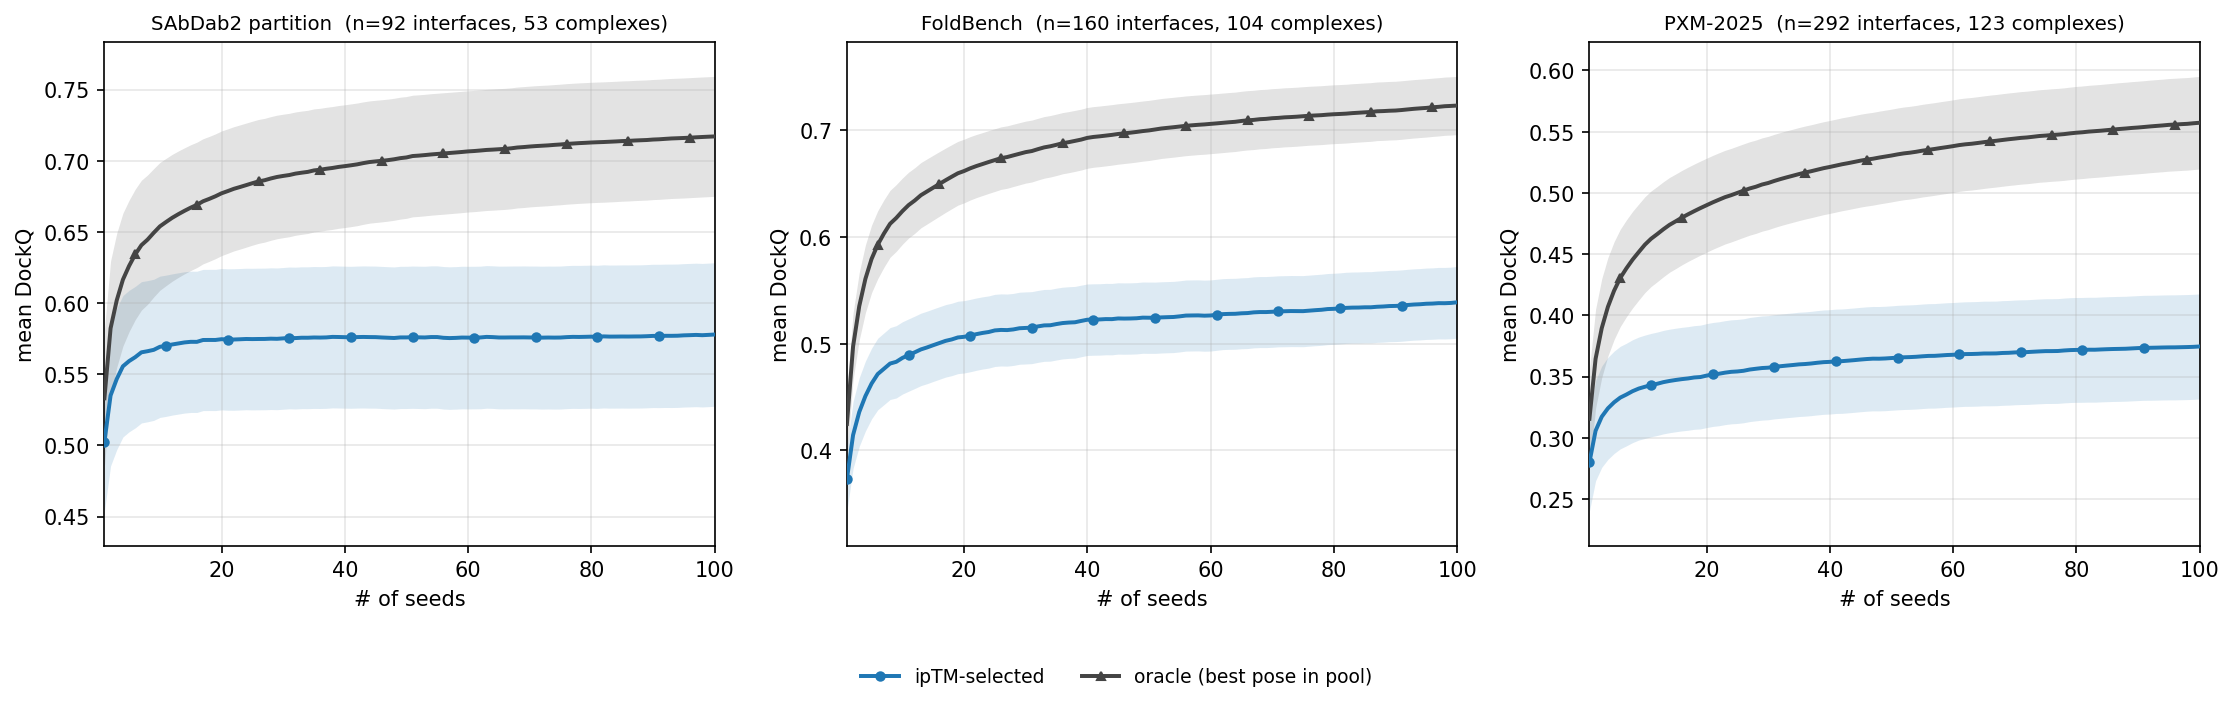
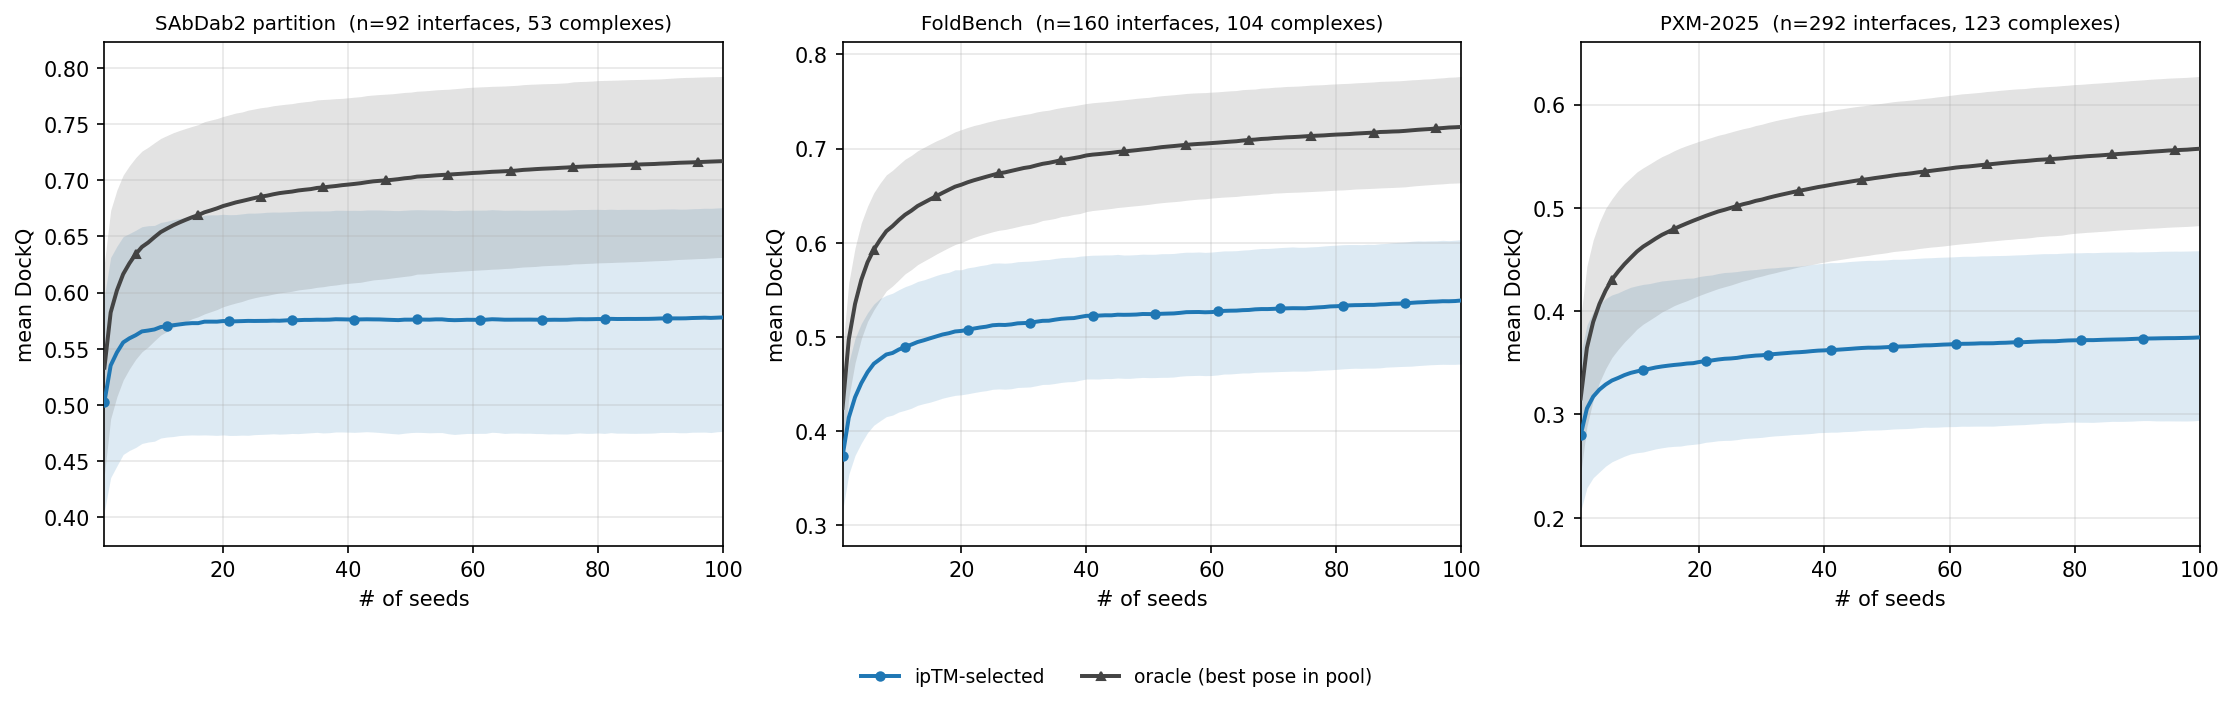
figures: 95% percentile CIs, the gap bootstrapped paired, and two stale README bullets
Three review items, all verified against the code first.

95% CLUSTER-BOOTSTRAP CONFIDENCE INTERVALS replace the +/-1 SEM bands. Percentile
intervals also drop the symmetry assumption, which matters where a proportion is
bounded: FoldBench's oracle runs above 90% and a symmetric band there extends past
100%. n_boot defaults to 2,000 rather than 400 because percentiles depend on the
tails, not the spread. cluster_sem is kept for the printed comparison against the
naive binomial SEM.

Cost stayed flat by precomputing each complex's summed curve, so a replicate sums
~100 complexes instead of ~300 interfaces: 2,000 replicates now run faster than
400 did. The estimand is unchanged -- a replicate divides by how many INTERFACES
its sampled complexes carry, so it remains the interface-weighted mean.

THE GAP IS NOW BOOTSTRAPPED PAIRED, and selection_vs_budget.py actually calls
add_gap(), which it did not. It was printing the difference of two aggregate
curves with no interval, while the README quoted gap SEMs that script could not
reproduce. The two curves are measured on the SAME interfaces and move together,
so differencing independently-banded curves misstates it. At 50 seeds:

  SAbDab2 partition  13.7 [ 8.7, 19.6]      FoldBench  17.4 [11.4, 23.8]
  PXM-2025           27.9 [20.1, 36.5]

Every gap interval excludes zero, on both the thresholded and continuous measures,
on all three benchmarks. Each panel now annotates its gap at 50 seeds from the
[…]

diff --git a/figures/selection_vs_budget.py b/figures/selection_vs_budget.py
@@ -49,7 +49,8 @@ def main():
     ap.add_argument("--draws", type=int, default=40,
                     help="seed subsets drawn per interface; the curve is an expectation over "
                          "WHICH N seeds you have, not over the first N by seed number")
-    ap.add_argument("--n-boot", type=int, default=400, help="cluster bootstrap replicates")
+    ap.add_argument("--n-boot", type=int, default=2000,
+                    help="cluster bootstrap replicates. 2,000 rather than 400 because the\n                         bands are PERCENTILE intervals, which depend on the tails and need\n                         far more replicates than a standard deviation does.")
     ap.add_argument("--binomial-band", action="store_true",
                     help="also draw the naive per-interface binomial SEM, for comparison")
     ap.add_argument("--out", default="figures/selection_vs_budget.png")
@@ -61,36 +62,49 @@ def main():
         if not os.path.exists(path):
             print(f"{name}: {path} absent, skipped")
             continue
-        sw = PS.sweep(path, ic, sc, smc, dc, qc, a.max_budget, a.draws, pdb_col=pc)
+        sw = PS.add_gap(PS.sweep(path, ic, sc, smc, dc, qc, a.max_budget, a.draws,
+                                 pdb_col=pc))
         series.append((name, sw))
 
     for name, sw in series:
         xs = sw["budgets"]
         sel, orc = PS.mean_curve(sw, "sel_acc"), PS.mean_curve(sw, "orc_acc")
-        sel_e = PS.cluster_sem(sw, "sel_acc", a.n_boot)
-        orc_e = PS.cluster_sem(sw, "orc_acc", a.n_boot)
+        sel_lo, sel_hi = PS.cluster_ci(sw, "sel_acc", a.n_boot)
+        orc_lo, orc_hi = PS.cluster_ci(sw, "orc_acc", a.n_boot)
+        # THE GAP IS THE CLAIM, SO IT CARRIES ITS OWN PAIRED INTERVAL. Differencing two aggregate
+        # curves and eyeballing their separate bands ignores that the two are measured on the SAME
+        # interfaces and move together; the paired bootstrap keeps that pairing.
+        gap = PS.mean_curve(sw, "gap_acc")
+        gap_lo, gap_hi = PS.cluster_ci(sw, "gap_acc", a.n_boot)
         sel_b = PS.binomial_sem(sw, "sel_acc")
         seed_sd = PS.mean_seed_sd(sw, "seed_sd_acc")
         print(f"\n{name}: {len(sw['ifaces'])} interfaces over {len(set(sw['pdb']))} complexes, "
-              f"{a.draws} seed draws, {a.n_boot} cluster-bootstrap replicates")
-        print(f"{'N':>4}  {'selected':>18} {'oracle':>18}  {'gap':>6}  {'binomSEM':>8} "
+              f"{a.draws} seed draws, {a.n_boot} cluster-bootstrap replicates, 95% percentile CIs")
+        print(f"{'N':>4}  {'selected':>22} {'oracle':>22}  {'paired gap':>22}  {'binomSEM':>8} "
               f"{'seedSD':>7}")
         for n in (1, 5, 10, 25, 50, 75, 100):
             if n > len(xs):
                 continue
             j = n - 1
-            print(f"{n:>4}  {sel[j]*100:>8.1f}+/-{sel_e[j]*100:<7.1f} "
-                  f"{orc[j]*100:>8.1f}+/-{orc_e[j]*100:<7.1f}  {(orc[j]-sel[j])*100:>6.1f}  "
+            print(f"{n:>4}  {sel[j]*100:>6.1f} [{sel_lo[j]*100:>5.1f},{sel_hi[j]*100:>5.1f}] "
+                  f"{orc[j]*100:>6.1f} [{orc_lo[j]*100:>5.1f},{orc_hi[j]*100:>5.1f}]  "
+                  f"{gap[j]*100:>6.1f} [{gap_lo[j]*100:>5.1f},{gap_hi[j]*100:>5.1f}]  "
                   f"{sel_b[j]*100:>8.1f} {seed_sd[j]*100:>7.1f}")
+
+    # PAIRED GAPS, computed once, so the annotation and the printed table cannot disagree.
+    gap_all = {}
+    for name, sw in series:
+        g = PS.mean_curve(sw, "gap_acc")
+        glo, ghi = PS.cluster_ci(sw, "gap_acc", a.n_boot)
+        gap_all[name] = (g, glo, ghi)
 
     fig, axes = plt.subplots(1, 3, figsize=(15, 4.6))
     for ax, (name, sw) in zip(axes, series):
         xs = sw["budgets"]
-        curves = [(PS.mean_curve(sw, "sel_acc"), PS.cluster_sem(sw, "sel_acc", a.n_boot)),
-                  (PS.mean_curve(sw, "orc_acc"), PS.cluster_sem(sw, "orc_acc", a.n_boot))]
-        for (ms, es), c in zip(curves, COLORS):
-            ax.fill_between(xs, [(m - e) * 100 for m, e in zip(ms, es)],
-                            [(m + e) * 100 for m, e in zip(ms, es)],
+        curves = [(PS.mean_curve(sw, "sel_acc"), PS.cluster_ci(sw, "sel_acc", a.n_boot)),
+                  (PS.mean_curve(sw, "orc_acc"), PS.cluster_ci(sw, "orc_acc", a.n_boot))]
+        for (ms, (lo, hi)), c in zip(curves, COLORS):
+            ax.fill_between(xs, [v * 100 for v in lo], [v * 100 for v in hi],
                             color=c, alpha=0.15, linewidth=0, zorder=1)
         if a.binomial_band:
             bs = PS.binomial_sem(sw, "sel_acc")
@@ -99,13 +113,13 @@ def main():
                     ls=":", zorder=2)
             ax.plot(xs, [(m + e) * 100 for m, e in zip(ms, bs)], color=COLORS[0], lw=0.8,
                     ls=":", zorder=2, label="binomial SEM (naive)")
-        for i, ((ms, es), c, lbl) in enumerate(zip(curves, COLORS, LABELS)):
+        for i, ((ms, _ci), c, lbl) in enumerate(zip(curves, COLORS, LABELS)):
             ax.plot(xs, [m * 100 for m in ms], color=c, label=lbl, lw=1.9, ls="-",
                     marker=MARKERS[i], ms=4.0, markevery=MARKEVERY[i], zorder=5 - i)
-        lo = min((m - e) * 100 for ms, es in curves for m, e in zip(ms, es))
-        hi = max((m + e) * 100 for ms, es in curves for m, e in zip(ms, es))
-        pad = max(1.0, (hi - lo) * 0.08)
-        ax.set_ylim(max(0.0, lo - pad), min(100.0, hi + pad))
+        ylo = min(v * 100 for _ms, (lo_, _hi) in curves for v in lo_)
+        yhi = max(v * 100 for _ms, (_lo, hi_) in curves for v in hi_)
+        pad = max(1.0, (yhi - ylo) * 0.08)
+        ax.set_ylim(max(0.0, ylo - pad), min(100.0, yhi + pad))
         ax.set_title(f"{name}  (n={len(sw['ifaces'])} interfaces, "
                      f"{len(set(sw['pdb']))} complexes)", fontsize=9.5)
         ax.set_xlabel("# of seeds")

diff --git a/figures/pool_sweep.py b/figures/pool_sweep.py
@@ -124,33 +124,82 @@ def mean_curve(sw, key):
     return [sum(r[j] for r in rows) / n for j in range(len(sw["budgets"]))]
 
 
-def cluster_sem(sw, key, n_boot=400, rng_seed=1):
-    """SEM of the mean, resampling COMPLEXES with replacement.
-
-    The statistic is recomputed on each replicate from whichever interfaces the resampled
-    complexes carry, so a complex contributing ten interfaces moves the replicate ten times -- the
-    correlation a per-interface binomial SEM assumes away.
-    """
+def _complex_sums(sw, key):
+    """Per-complex summed curves and interface counts, so a bootstrap replicate is a sum over
+    ~100 complexes instead of ~300 interfaces. Makes 2,000 replicates as cheap as 400 were."""
     rows = sw[key]
     nb = len(sw["budgets"])
-    groups = collections.defaultdict(list)
+    sums, counts = {}, {}
     for i, pdb in enumerate(sw["pdb"]):
-        groups[pdb].append(i)
-    keys = list(groups)
-    rng = random.Random(rng_seed)
-    acc = [[] for _ in range(nb)]
-    for _ in range(n_boot):
-        idx = []
-        for _ in range(len(keys)):
-            idx.extend(groups[keys[rng.randrange(len(keys))]])
-        m = len(idx)
+        if pdb not in sums:
+            sums[pdb] = [0.0] * nb
+            counts[pdb] = 0
+        acc = sums[pdb]
+        r = rows[i]
         for j in range(nb):
-            acc[j].append(sum(rows[i][j] for i in idx) / m)
+            acc[j] += r[j]
+        counts[pdb] += 1
+    keys = list(sums)
+    return keys, sums, counts, nb
+
+
+def _replicates(sw, key, n_boot, rng_seed):
+    """n_boot interface-weighted means, each over complexes resampled with replacement.
+
+    THE ESTIMAND IS UNCHANGED. A replicate sums the interfaces of its sampled complexes and
+    divides by how many interfaces that is, so it stays the interface-weighted mean the point
+    estimate uses -- resampling changes the UNCERTAINTY model, not what is being measured.
+    """
+    keys, sums, counts, nb = _complex_sums(sw, key)
+    rng = random.Random(rng_seed)
+    n_k = len(keys)
+    out = [[0.0] * n_boot for _ in range(nb)]
+    for b in range(n_boot):
+        tot = [0.0] * nb
+        m = 0
+        for _ in range(n_k):
+            k = keys[rng.randrange(n_k)]
+            sk = sums[k]
+            for j in range(nb):
+                tot[j] += sk[j]
+            m += counts[k]
+        for j in range(nb):
+            out[j][b] = tot[j] / m
+    return out
+
+
+def cluster_ci(sw, key, n_boot=2000, rng_seed=1, alpha=0.05):
+    """95% percentile confidence interval from the cluster bootstrap, as (lo, hi) per budget.
+
+    PERCENTILES, NOT +/- SEM. A +/-1 standard error band is about 68% and is not the convention
+    these curves are read against; the 2.5th/97.5th percentiles of the replicate distribution are.
+    They also do not assume the distribution is symmetric, which matters near the ends of the
+    range where a proportion is bounded -- the oracle curve runs above 90% on FoldBench and a
+    symmetric band there would extend past 100%.
+
+    n_boot defaults to 2,000: percentile estimates need far more replicates than a standard
+    deviation does, because they depend on the tails rather than the spread.
+    """
+    reps = _replicates(sw, key, n_boot, rng_seed)
+    lo_i = max(0, int((alpha / 2) * n_boot) - 1)
+    hi_i = min(n_boot - 1, int((1 - alpha / 2) * n_boot))
+    lo, hi = [], []
+    for j in range(len(sw["budgets"])):
+        v = sorted(reps[j])
+        lo.append(v[lo_i])
+        hi.append(v[hi_i])
+    return lo, hi
+
+
+def cluster_sem(sw, key, n_boot=400, rng_seed=1):
+    """SD across cluster-bootstrap replicates. Kept for the printed table and for comparing
+    against the naive binomial SEM; the FIGURE draws cluster_ci instead."""
+    reps = _replicates(sw, key, n_boot, rng_seed)
     out = []
-    for j in range(nb):
-        vals = acc[j]
-        mu = sum(vals) / len(vals)
-        out.append((sum((v - mu) ** 2 for v in vals) / (len(vals) - 1)) ** 0.5)
+    for j in range(len(sw["budgets"])):
+        v = reps[j]
+        mu = sum(v) / len(v)
+        out.append((sum((x - mu) ** 2 for x in v) / (len(v) - 1)) ** 0.5)
     return out
 
 

diff --git a/figures/dockq_vs_budget.py b/figures/dockq_vs_budget.py
@@ -38,7 +38,8 @@ def main():
     ap.add_argument("--root", default=".")
     ap.add_argument("--max-budget", type=int, default=100)
     ap.add_argument("--draws", type=int, default=40)
-    ap.add_argument("--n-boot", type=int, default=400)
+    ap.add_argument("--n-boot", type=int, default=2000,
+                    help="cluster bootstrap replicates; percentile intervals need more than a standard deviation does")
     ap.add_argument("--out", default="figures/dockq_vs_budget.png")
     a = ap.parse_args()
 
@@ -54,35 +55,38 @@ def main():
     for name, sw in series:
         xs = sw["budgets"]
         sel, orc = PS.mean_curve(sw, "sel_dq"), PS.mean_curve(sw, "orc_dq")
-        sel_e = PS.cluster_sem(sw, "sel_dq", a.n_boot)
-        orc_e = PS.cluster_sem(sw, "orc_dq", a.n_boot)
-        gap, gap_e = PS.mean_curve(sw, "gap_dq"), PS.cluster_sem(sw, "gap_dq", a.n_boot)
+        sel_lo, sel_hi = PS.cluster_ci(sw, "sel_dq", a.n_boot)
+        orc_lo, orc_hi = PS.cluster_ci(sw, "orc_dq", a.n_boot)
+        # PAIRED, for the same reason as the thresholded figure: the two means are measured on the
+        # same interfaces and move together.
+        gap = PS.mean_curve(sw, "gap_dq")
+        gap_lo, gap_hi = PS.cluster_ci(sw, "gap_dq", a.n_boot)
         seed_sd = PS.mean_seed_sd(sw, "seed_sd_dq")
-        print(f"\n{name}: {len(sw['ifaces'])} interfaces over {len(set(sw['pdb']))} complexes "
-              f"(mean DockQ +/- cluster-bootstrap SEM)")
-        print(f"{'N':>4}  {'selected':>18} {'oracle':>18}  {'gap':>18} {'seedSD':>7}")
+        print(f"\n{name}: {len(sw['ifaces'])} interfaces over {len(set(sw['pdb']))} complexes, "
+              f"{a.n_boot} replicates, 95% percentile CIs")
+        print(f"{'N':>4}  {'selected':>22} {'oracle':>22}  {'paired gap':>22} {'seedSD':>7}")
         for n in (1, 5, 10, 25, 50, 75, 100):
             if n > len(xs):
                 continue
             j = n - 1
-            print(f"{n:>4}  {sel[j]:>8.4f}+/-{sel_e[j]:<7.4f} {orc[j]:>8.4f}+/-{orc_e[j]:<7.4f}  "
-                  f"{gap[j]:>8.4f}+/-{gap_e[j]:<7.4f} {seed_sd[j]:>7.4f}")
+            print(f"{n:>4}  {sel[j]:>6.3f} [{sel_lo[j]:>5.3f},{sel_hi[j]:>5.3f}] "
+                  f"{orc[j]:>6.3f} [{orc_lo[j]:>5.3f},{orc_hi[j]:>5.3f}]  "
+                  f"{gap[j]:>6.3f} [{gap_lo[j]:>5.3f},{gap_hi[j]:>5.3f}] {seed_sd[j]:>7.4f}")
 
     fig, axes = plt.subplots(1, 3, figsize=(15, 4.6))
     for ax, (name, sw) in zip(axes, series):
         xs = sw["budgets"]
-        curves = [(PS.mean_curve(sw, "sel_dq"), PS.cluster_sem(sw, "sel_dq", a.n_boot)),
-                  (PS.mean_curve(sw, "orc_dq"), PS.cluster_sem(sw, "orc_dq", a.n_boot))]
-        for (ms, es), c in zip(curves, COLORS):
-            ax.fill_between(xs, [m - e for m, e in zip(ms, es)], [m + e for m, e in zip(ms, es)],
-                            color=c, alpha=0.15, linewidth=0, zorder=1)
-        for i, ((ms, es), c, lbl) in enumerate(zip(curves, COLORS, LABELS)):
+        curves = [(PS.mean_curve(sw, "sel_dq"), PS.cluster_ci(sw, "sel_dq", a.n_boot)),
+                  (PS.mean_curve(sw, "orc_dq"), PS.cluster_ci(sw, "orc_dq", a.n_boot))]
+        for (ms, (lo_, hi_)), c in zip(curves, COLORS):
+            ax.fill_between(xs, lo_, hi_, color=c, alpha=0.15, linewidth=0, zorder=1)
+        for i, ((ms, _ci), c, lbl) in enumerate(zip(curves, COLORS, LABELS)):
             ax.plot(xs, ms, color=c, label=lbl, lw=1.9, ls="-", marker=MARKERS[i], ms=4.0,
                     markevery=MARKEVERY[i], zorder=5 - i)
-        lo = min(m - e for ms, es in curves for m, e in zip(ms, es))
-        hi = max(m + e for ms, es in curves for m, e in zip(ms, es))
-        pad = max(0.005, (hi - lo) * 0.08)
-        ax.set_ylim(max(0.0, lo - pad), min(1.0, hi + pad))
+        ylo = min(v for _ms, (lo_, _h) in curves for v in lo_)
+        yhi = max(v for _ms, (_l, hi_) in curves for v in hi_)
+        pad = max(0.005, (yhi - ylo) * 0.08)
+        ax.set_ylim(max(0.0, ylo - pad), min(1.0, yhi + pad))
         ax.set_title(f"{name}  (n={len(sw['ifaces'])} interfaces, "
                      f"{len(set(sw['pdb']))} complexes)", fontsize=9.5)
         ax.set_xlabel("# of seeds")

diff --git a/figures/README.md b/figures/README.md
@@ -28,24 +28,29 @@ ranking then lost. It is the entire headroom available to a confidence head. Eve
 oracle curve is a generation failure that no reranking can reach, so the oracle is the ceiling and
 the gap is the prize.
 
-Internally the code still partitions into three categories — selected, decoy, none — and oracle is
-selected + decoy. The printed table carries all three; the figure plots the two that frame the gap.
+Internally the sweep still partitions into three categories — selected, decoy, none — and oracle is
+selected + decoy. The printed table carries selected, oracle and their **paired** gap, each with a
+95% interval; the figure plots the two curves that frame the gap and annotates the gap at 50 seeds.
 
-Read at 50 seeds, the free budget, with **cluster-bootstrap SEMs over complexes**:
+Read at 50 seeds, the free budget, with **95% cluster-bootstrap CIs**. The gap is bootstrapped
+**paired** — the same interfaces carry both curves and move together, so differencing two
+independently-banded curves would misstate its uncertainty:
 
-| benchmark | interfaces / complexes | selected | oracle | selection gap |
+| benchmark | interfaces / complexes | selected | oracle | paired selection gap |
 |---|---|---|---|---|
-| SAbDab2 partition | 92 / 53 | 72.0 ± 5.8 | 85.7 ± 4.9 | 13.7 ± 4.1 |
-| FoldBench | 160 / 104 | 71.5 ± 4.1 | 88.9 ± 2.8 | 17.4 ± 3.1 |
-| PXM-2025 | 292 / 123 | 50.4 ± 5.6 | 78.3 ± 4.9 | 27.9 ± 4.1 |
+| SAbDab2 partition | 92 / 53 | 72.0 [60.9, 82.6] | 85.7 [76.1, 94.6] | **13.7 [8.7, 19.6]** |
+| FoldBench | 160 / 104 | 71.5 [63.5, 79.4] | 88.9 [83.3, 93.8] | **17.4 [11.4, 23.8]** |
+| PXM-2025 | 292 / 123 | 50.4 [39.9, 61.3] | 78.3 [68.4, 87.3] | **27.9 [20.1, 36.5]** |
 
 Continuous, same budget, mean DockQ:
 
-| benchmark | selected | oracle | gap |
+| benchmark | selected | oracle | paired gap |
 |---|---|---|---|
-| SAbDab2 partition | 0.576 ± 0.050 | 0.702 ± 0.043 | 0.126 ± 0.019 |
-| FoldBench | 0.524 ± 0.033 | 0.700 ± 0.028 | 0.175 ± 0.015 |
-| PXM-2025 | 0.365 ± 0.043 | 0.531 ± 0.038 | 0.165 ± 0.016 |
+| SAbDab2 partition | 0.576 [0.479, 0.673] | 0.702 [0.619, 0.785] | **0.126 [0.091, 0.165]** |
+| FoldBench | 0.524 [0.459, 0.590] | 0.700 [0.645, 0.754] | **0.175 [0.146, 0.207]** |
+| PXM-2025 | 0.365 [0.285, 0.450] | 0.531 [0.457, 0.602] | **0.165 [0.134, 0.199]** |
+
+Every gap interval excludes zero on both measures and on all three benchmarks.
 
 **The deficit is not a threshold artefact.** If the gap were marginal crossings of 0.23, the
 continuous means would converge while the acceptable fractions diverged. They do not: the mean
@@ -139,9 +144,11 @@ of theirs** and should not be presented as one.
   deterministic draw and it disagrees with a bootstrap by ~5 points at N=1. The
   benchmarks use different seed ranges — SAbDab2 partition 400000+, FoldBench a mix of 101–200, 501–510
   and 600000+, PXM its own — so N is a position, not a seed value.
-- **The shaded band is the SEM of a proportion**, sqrt(p(1-p)/n) over the interface count — the
-  uncertainty of a fraction of interfaces, not a spread over seeds. n is constant across the axis,
-  so a band narrows only as p approaches 0 or 1.
+- **The shaded band is a 95% cluster-bootstrap confidence interval**, taken as the 2.5th/97.5th
+  percentiles of 2,000 replicates that resample COMPLEXES with replacement. Not a binomial SEM over
+  interfaces (that is what this file used to say and the code used to do — see below), and not a
+  +/-1 SEM band: percentiles do not assume symmetry, which matters where a proportion is bounded —
+  FoldBench's oracle runs above 90% and a symmetric band there would extend past 100%.
 - **The interface set is fixed across the axis.** Only interfaces with at least 100 seeds are
   counted, so the denominator does not change with N. Every interface of all three benchmarks
   clears 100, so nothing is dropped — but only after FoldBench's top-off was merged: 28 of its 160
